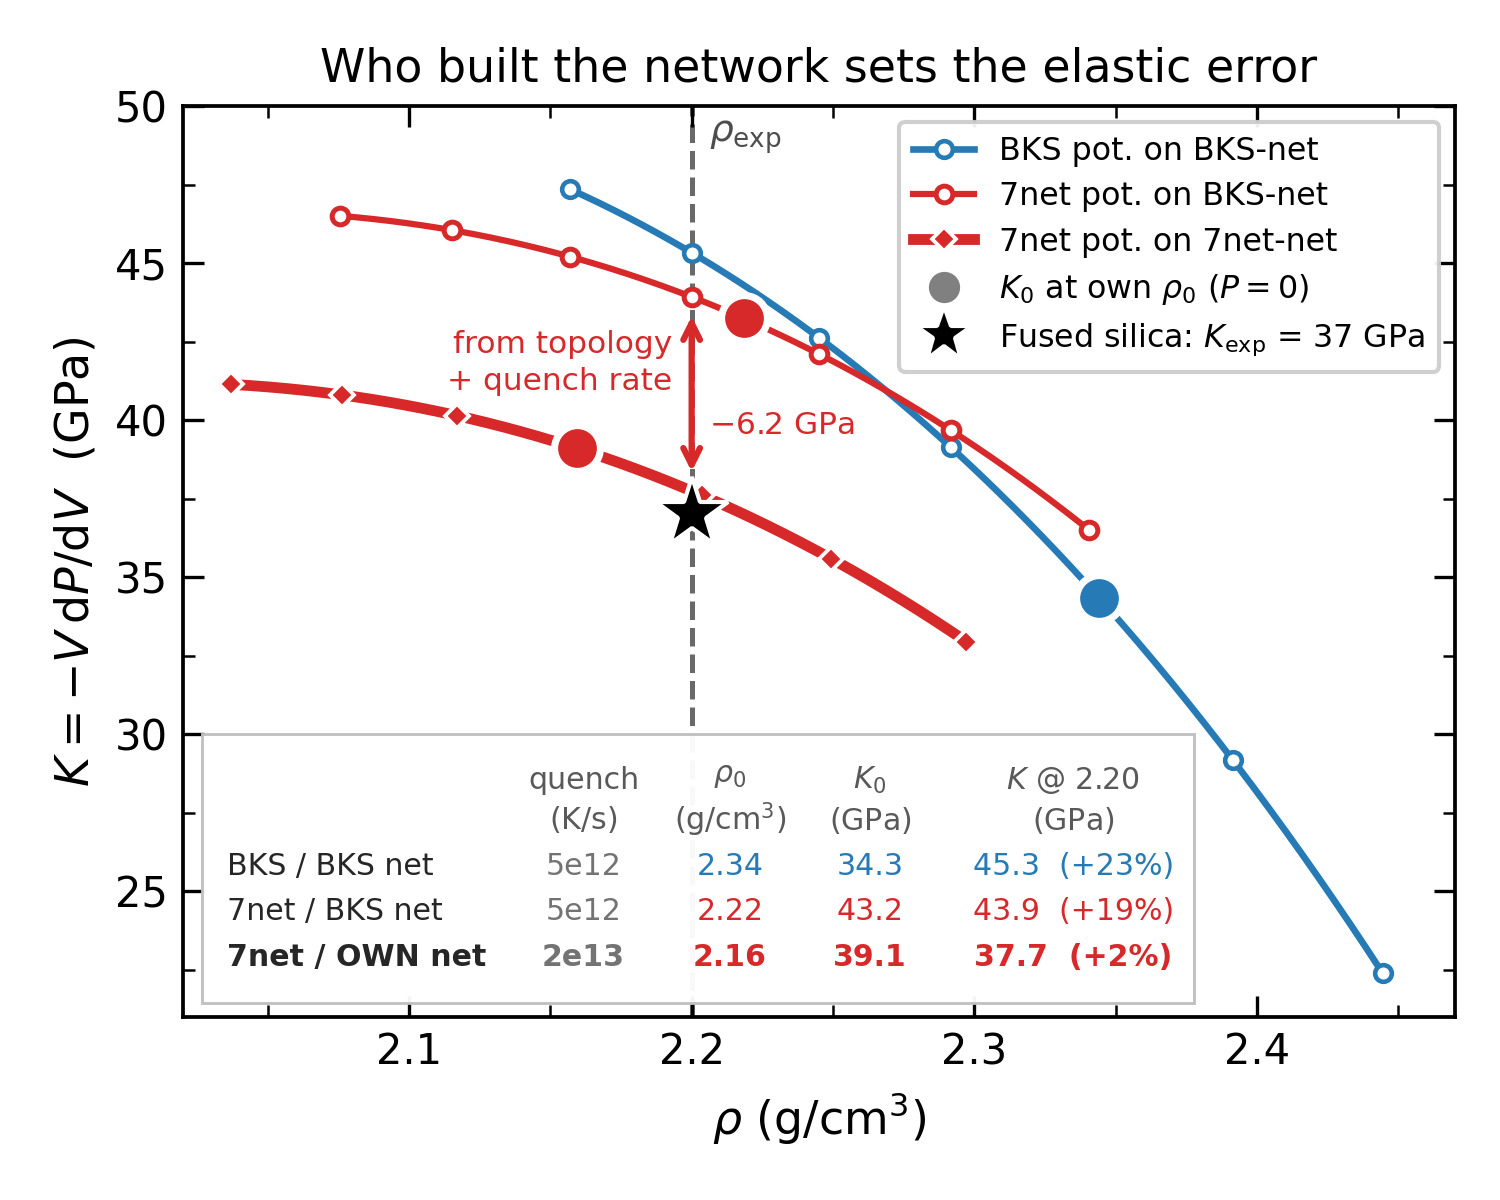
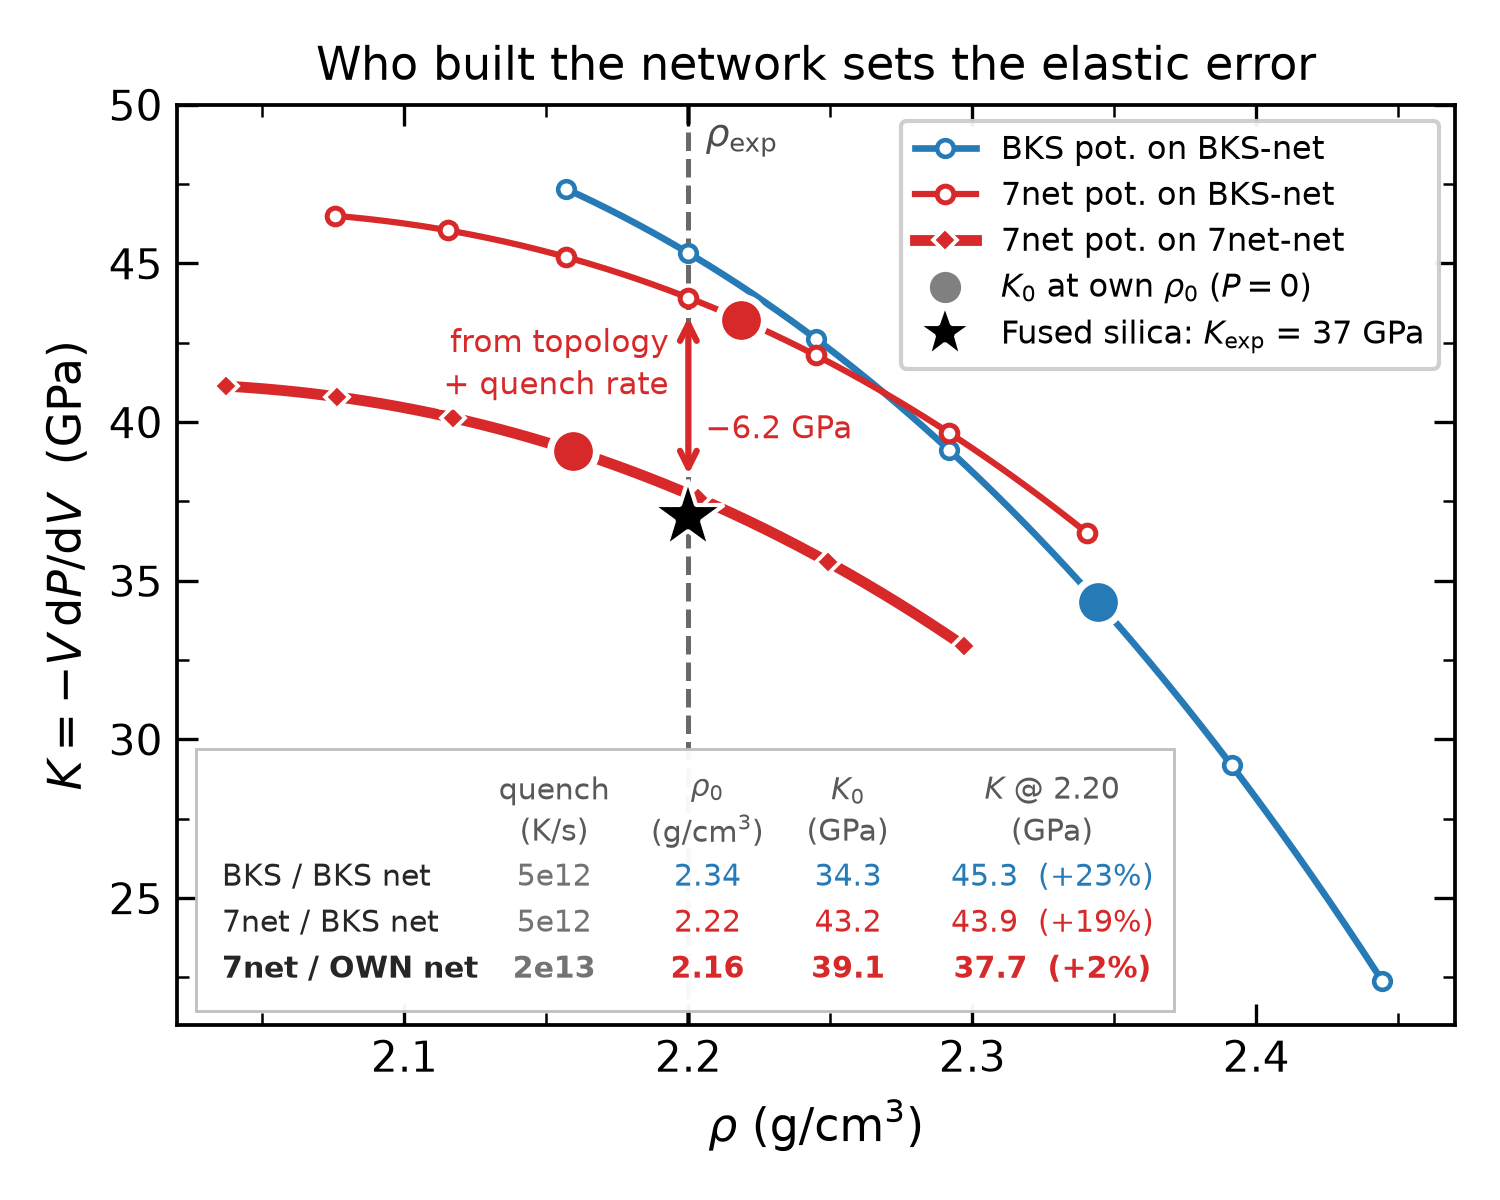
Consistency audit after the tail-on switch: found a v1 leak into RESULTS
Swept the repo for anything left stale by the tail-off -> tail-on change and by
the earlier rho=2.607 -> 2.20 restart. Five real problems.

1. fig_density.py's docstring still said "reported values are tail OFF" while
   the code reads ev_bks_scan_tail.txt. The file contradicted itself. Rewrote
   the docstring to state the tail-on grounds and to record that the original
   tail-off justification was circular.

2. RESULTS.md "lessons" section still claimed BKS is 5x more accurate on K0.
   With the tail on it is 2.7x. Fixed.

3. THE REAL FIND: RESULTS.md section 3(b) -- "the density drop is entirely
   explained by bond length, predicted -4.28 % vs measured -4.31 %, agreeing to
   0.03 %p" -- was carrying numbers from the DISCARDED rho=2.607 work
   (s2_relax/NOTE.md S2-3). There the comparison was Si-O 1.6123 -> 1.6360 with
   density 2.6071 -> 2.4948, i.e. the same structure relaxed by 7net at two
   volumes at 0 K. That is a clean apples-to-apples test and the claim was
   sound in its own context.

   The current section 3(b) is a completely different comparison: 300 K MD g(r)
   peak positions against 0 K equilibrium densities of two different potentials.
   The v1 numbers do not transfer. Recomputed honestly:

       prediction from mean Si-O (1.6147 -> 1.6369)   -4.01 %
       prediction from peak Si-O (1.605  -> 1.635 )   -5.40 %
       measured (2.3442 -> 2.2185)                    -5.36 %

   So the prediction swings 1.4 %p depending on which equally arbitrary
[…]

diff --git a/04_analysis/src/fig_bulkmod.py b/04_analysis/src/fig_bulkmod.py
@@ -180,9 +180,9 @@ ax.text(RHO_EXP + 0.006, 0.5 * (ktop + kown) - 1,
 #              -> 상자를 옮기면 열도 같이 따라온다 (예전엔 절대값이라 따로 고쳐야 했다)
 #              lab 만 왼쪽정렬, 나머지는 오른쪽정렬(숫자 자릿수 맞추려고)
 TABLE = dict(
-    x=0.015, y=0.015, w=0.78, fs=7.2, row_dy=0.05, pad=0.025,
+    x=0.015, y=0.015, w=0.765, fs=7.2, row_dy=0.05, pad=0.02,
     hdr_extra=0.045,          # 헤더 2번째 줄(단위)이 차지하는 높이. 상자가 위로 늘어난다.
-    cols=dict(lab=0.020, rate=0.30, r0=0.415, k0=0.525, kx=0.685),
+    cols=dict(lab=0.020, rate=0.28, r0=0.40, k0=0.51, kx=0.67),
 )
 # ※ 2026-08-25 (2차): 수치 열을 전부 **가운데 정렬**로 바꿨다.
 #   -> 따라서 아래 cols 값은 **열의 오른쪽 끝이 아니라 열의 중심**이다 (lab 만 왼쪽 끝).
